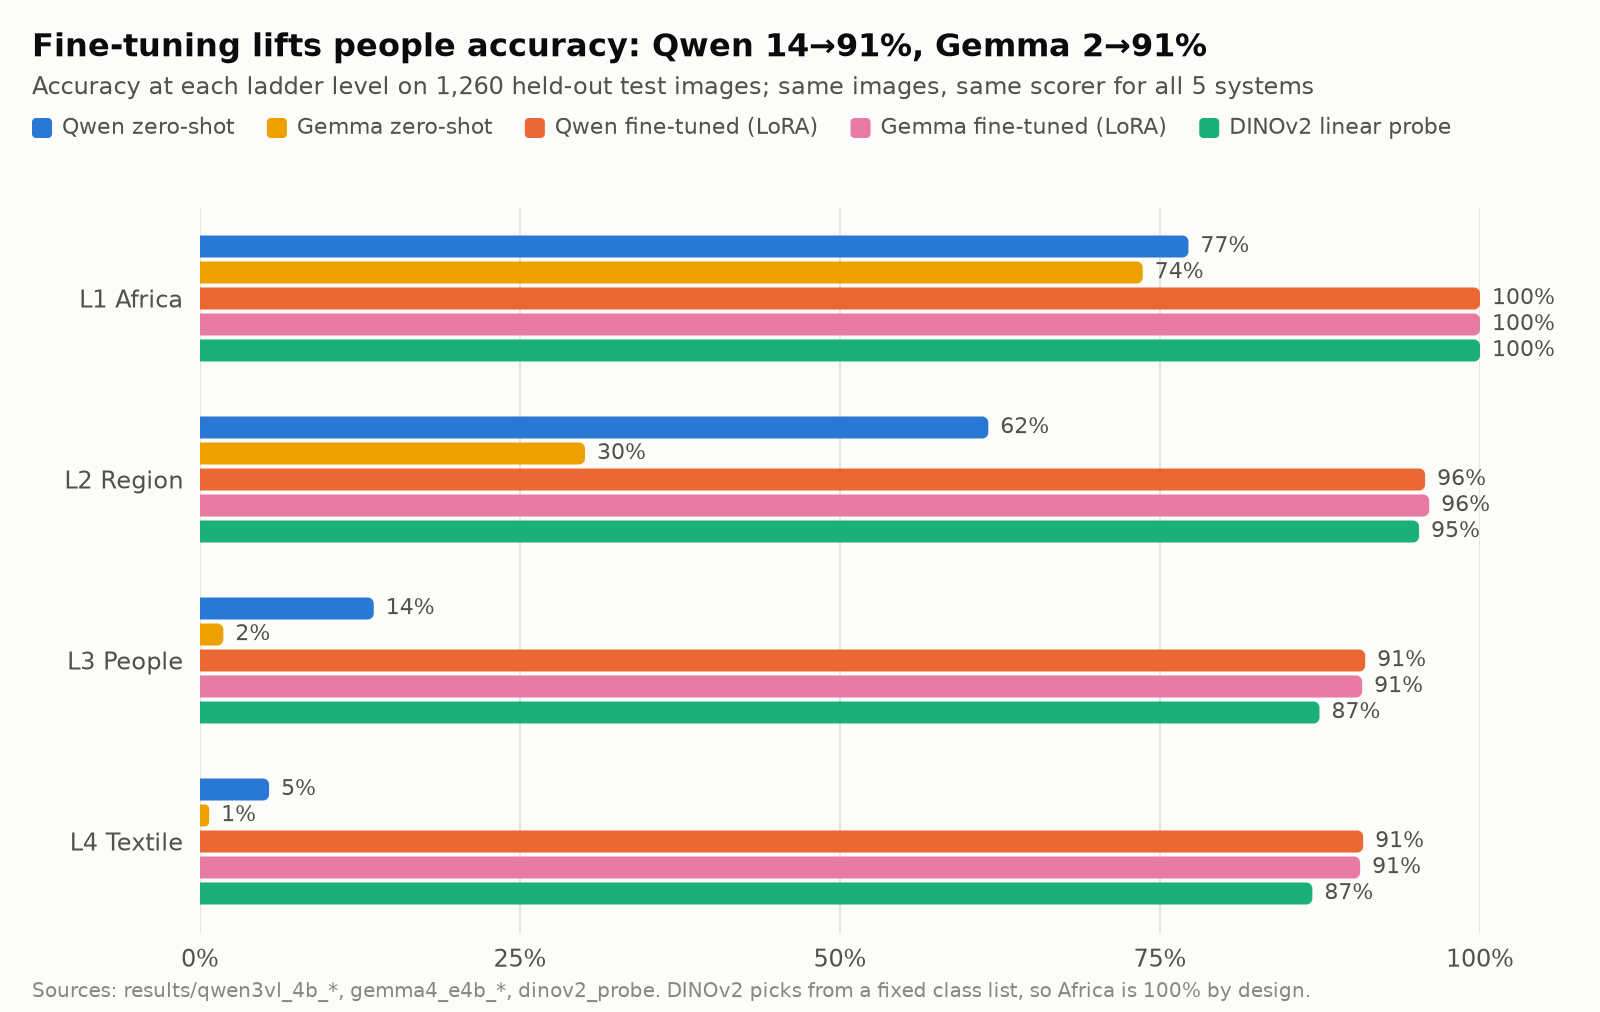
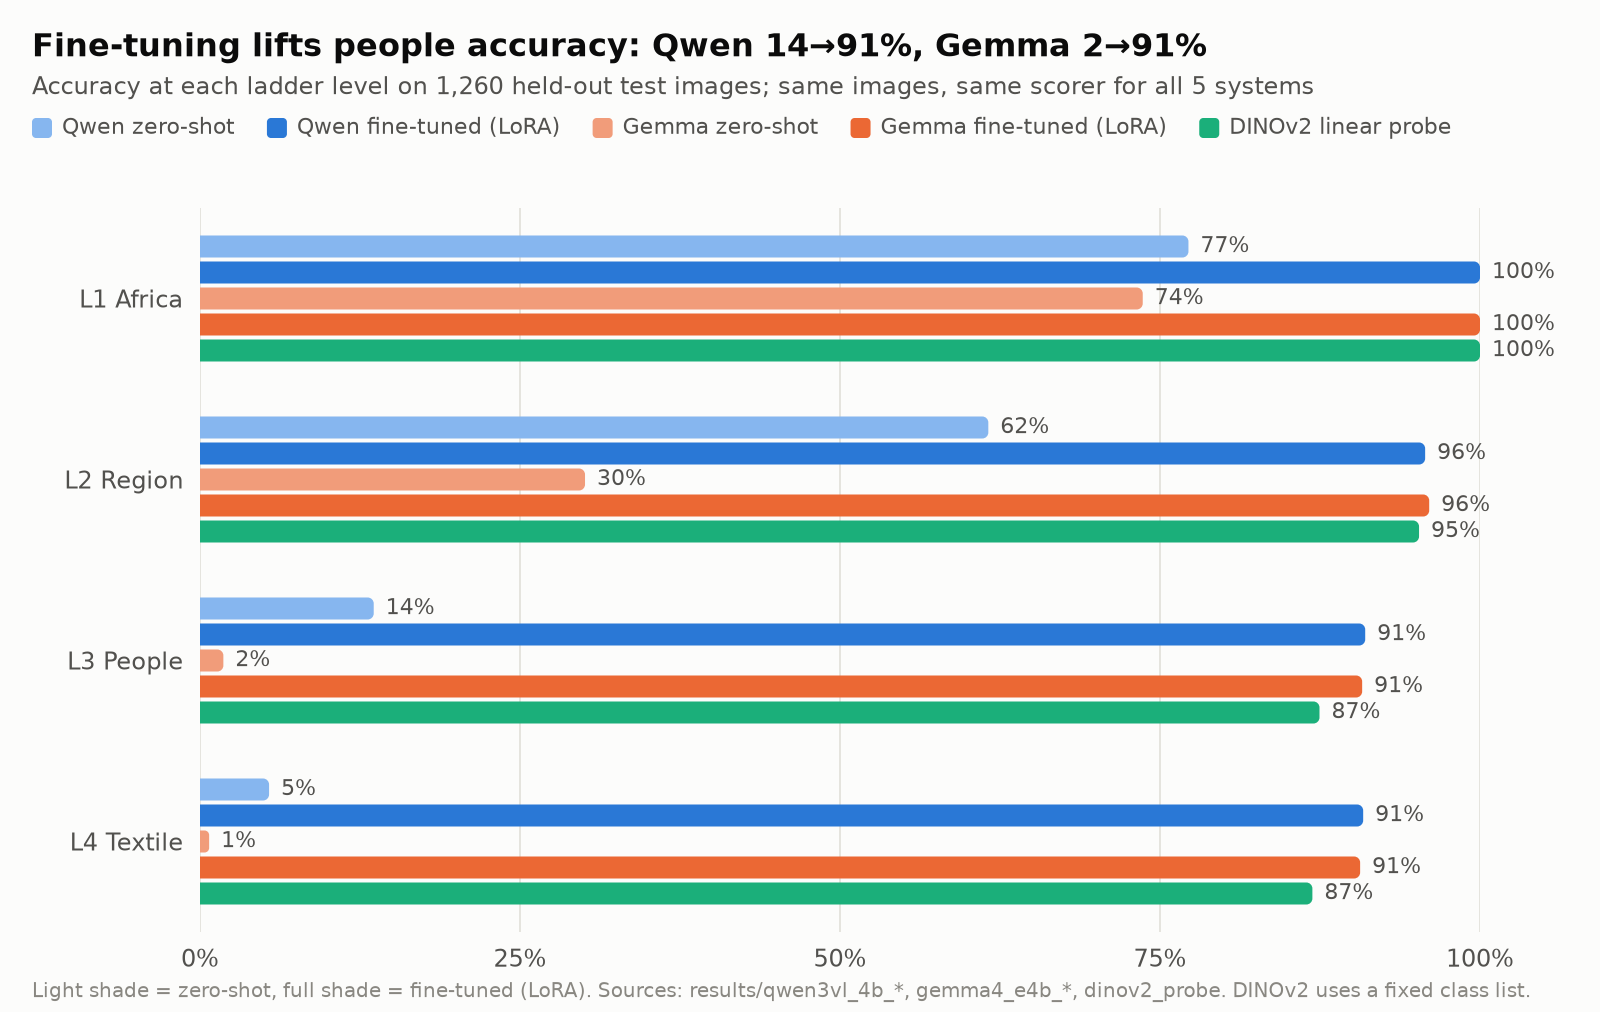
Recolor model comparison figures by model family and condition
Colour now encodes the model (Qwen blue, Gemma orange, DINOv2 aqua) and shade
encodes the condition (light tint = zero-shot, full colour = fine-tuned), with
each model's pair adjacent. The orange tint is the slot colour mixed toward the
surface to a 2:1 contrast floor, matching the blue light step. Fig 8 and fig 9
titles now cover both VLMs, and fig 9's title is computed from the data for both.

diff --git a/scripts/11_model_report_assets.py b/scripts/11_model_report_assets.py
@@ -44,22 +44,23 @@ RES, OUT, TAB = ra.RES, ra.OUT, ra.TAB
 PX, SURF, INK, INK2, MUTED, GRID, BASE, GRAY, BLUE = ra.PX, ra.SURF, ra.INK, ra.INK2, ra.MUTED, ra.GRID, ra.BASE, ra.GRAY, ra.BLUE
 SEED = 42
 
-# Categorical slots 1-3 of the reference palette, in fixed order (validated: all checks pass; aqua is below 3:1
-# contrast on the surface, so every bar carries a direct value label and a table twin exists).
+# Colour = model (palette slots 1-3: blue Qwen, orange Gemma, aqua DINOv2); shade = condition (light tint = zero-shot,
+# full colour = fine-tuned). Tints are chosen to clear a 2:1 contrast floor on the surface (blue step 250; the orange
+# tint is the slot colour mixed 35% toward the surface). Every bar carries a direct value label and a table twin exists.
 MODELS = {
-    "zs": {"label": "Qwen zero-shot", "long": "Qwen3-VL-4B, zero-shot", "color": "#2a78d6",
+    "zs": {"label": "Qwen zero-shot", "long": "Qwen3-VL-4B, zero-shot", "color": "#86b6ef",
            "dir": RES / "qwen3vl_4b_zeroshot" / "structured", "raw": RES / "qwen3vl_4b_zeroshot" / "structured_raw.jsonl"},
-    "ft": {"label": "Qwen fine-tuned (LoRA)", "long": "Qwen3-VL-4B, LoRA fine-tuned", "color": "#eb6834",
+    "ft": {"label": "Qwen fine-tuned (LoRA)", "long": "Qwen3-VL-4B, LoRA fine-tuned", "color": "#2a78d6",
            "dir": RES / "qwen3vl_4b_lora_eval" / "structured", "raw": RES / "qwen3vl_4b_lora_eval" / "structured_raw.jsonl"},
     "dino": {"label": "DINOv2 linear probe", "long": "DINOv2 linear probe", "color": "#1baf7a",
              "dir": RES / "dinov2_probe" / "ladder", "raw": None},
 }
-MODELS["gzs"] = {"label": "Gemma zero-shot", "long": "Gemma 4 E4B, zero-shot", "color": "#eda100",
+MODELS["gzs"] = {"label": "Gemma zero-shot", "long": "Gemma 4 E4B, zero-shot", "color": "#f19c7a",
                  "dir": RES / "gemma4_e4b_zeroshot" / "structured", "raw": RES / "gemma4_e4b_zeroshot" / "structured_raw.jsonl"}
-MODELS["gft"] = {"label": "Gemma fine-tuned (LoRA)", "long": "Gemma 4 E4B, LoRA fine-tuned", "color": "#e87ba4",
+MODELS["gft"] = {"label": "Gemma fine-tuned (LoRA)", "long": "Gemma 4 E4B, LoRA fine-tuned", "color": "#eb6834",
                  "dir": RES / "gemma4_e4b_lora_eval" / "structured", "raw": RES / "gemma4_e4b_lora_eval" / "structured_raw.jsonl"}
 # models whose results exist; display order groups zero-shot / fine-tuned / classifier
-MODELS = {k: MODELS[k] for k in ("zs", "gzs", "ft", "gft", "dino") if (MODELS[k]["dir"] / "metrics.json").exists()}
+MODELS = {k: MODELS[k] for k in ("zs", "ft", "gzs", "gft", "dino") if (MODELS[k]["dir"] / "metrics.json").exists()}
 KEYS = ["acc_l1_africa", "acc_l2_region", "acc_l3_people", "acc_l4_technique"]
 LEVELS = ["L1 Africa", "L2 Region", "L3 People", "L4 Textile"]
 RUNG_TXT = {3: "specific", 2: "region only", 1: "Africa only", 0: "no credit"}
@@ -201,8 +202,8 @@ def fig_compare_ladder(S):
     fig, ax = ra.new_fig(800, 150 + 4 * pitch, left=100, right=60, top=104, bottom=40)
     ra.heading(fig, title_people(),
                f"Accuracy at each ladder level on {S['n_test']:,} held-out test images; same images, same scorer for all {len(MODELS)} systems",
-               "Sources: results/qwen3vl_4b_*, gemma4_e4b_*, dinov2_probe. "
-               "DINOv2 picks from a fixed class list, so Africa is 100% by design.")
+               "Light shade = zero-shot, full shade = fine-tuned (LoRA). Sources: results/qwen3vl_4b_*, gemma4_e4b_*, dinov2_probe. "
+               "DINOv2 uses a fixed class list.")
     ra.legend_row(fig, [(m["color"], m["label"]) for _, m in ms], 64)
     grouped_hbars(fig, ax, rows, [(m["color"], m["label"]) for _, m in ms])
     ra.save(fig, "fig7_model_ladder_comparison")
@@ -214,8 +215,12 @@ def fig_compare_rungs(S):
     z0, zr3 = MODELS["zs"]["overall"]["rung_dist"], MODELS["zs"]["overall"]["specific_rate"]
     f = MODELS["ft"]["overall"]
     fig, ax = ra.new_fig(800, 180 + len(order) * 44, left=172, right=30, top=104, bottom=40)
+    g = MODELS.get("gzs"), MODELS.get("gft")
     ra.heading(fig, "Share of images reaching each rung, by system" if "ft" not in MODELS else
-               f"Specific answers: {100 * zr3:.0f}% Qwen zero-shot, {100 * f['specific_rate']:.0f}% after fine-tuning",
+               (f"Specific answers: {100 * zr3:.0f}% / {100 * g[0]['overall']['specific_rate']:.0f}% zero-shot, "
+                f"{100 * f['specific_rate']:.0f}% / {100 * g[1]['overall']['specific_rate']:.0f}% tuned (Qwen / Gemma)"
+                if g[0] and g[1] else
+                f"Specific answers: {100 * zr3:.0f}% Qwen zero-shot, {100 * f['specific_rate']:.0f}% after fine-tuning"),
                "Deepest correct rung per test image. Rung 3 = people or textile named correctly.",
                "Rung 1 (Africa only) includes wrong-specific answers such as the wrong people; "
                "rung 0 = not credited as African or no answer.")
@@ -234,17 +239,24 @@ def fig_compare_by_class(S):
     rows = [(c, [100 * m["per_class"][c]["specific_rate"] for m in ms]) for c in classes]
     ftv = {c: 100 * MODELS["ft"]["per_class"][c]["specific_rate"] for c in classes}
     zsv = {c: 100 * MODELS["zs"]["per_class"][c]["specific_rate"] for c in classes}
-    worst = min(ftv, key=ftv.get)
+    pairs = [(ftv, zsv)]
+    if "gft" in MODELS and "gzs" in MODELS:
+        pairs.append(({c: 100 * MODELS["gft"]["per_class"][c]["specific_rate"] for c in classes},
+                      {c: 100 * MODELS["gzs"]["per_class"][c]["specific_rate"] for c in classes}))
+    improved = all(a[c] > b[c] for a, b in pairs for c in classes)
+    low = {c: min(a[c] for a, _ in pairs) for c in classes}
+    worst = min(low, key=low.get)
+    hi = max(a[worst] for a, _ in pairs)
     best_zs = max(zsv, key=zsv.get)
-    improved = all(ftv[c] > zsv[c] for c in classes)
-    title = (f"Fine-tuning improves every class; the lowest is {worst} at {ftv[worst]:.0f}%" if improved else
-             f"Fine-tuning helps most classes; the lowest is {worst} at {ftv[worst]:.0f}%")
+    who = "both models" if len(pairs) > 1 else "Qwen"
+    title = (f"Tuning improves every class for {who}; weakest: {worst} ({low[worst]:.0f}-{hi:.0f}%)" if improved else
+             f"Tuning helps most classes for {who}; weakest: {worst} ({low[worst]:.0f}-{hi:.0f}%)")
     pitch = len(ms) * 12 + 14
     fig, ax = ra.new_fig(800, 150 + 8 * pitch, left=150, right=60, top=104, bottom=40)
     ra.heading(fig, title,
                f"Share of test images where the people or textile is named correctly (rung 3), per class. "
                f"Zero-shot best: {best_zs} ({zsv[best_zs]:.0f}%).",
-               "Source: per-class metrics of each run. Gold for Tswana-Shweshwe, Xhosa and Zulu is still a draft.")
+               "Light shade = zero-shot, full = fine-tuned. Gold for Tswana-Shweshwe, Xhosa and Zulu is a draft.")
     ra.legend_row(fig, [(m["color"], m["label"]) for m in ms], 64)
     grouped_hbars(fig, ax, rows, [(m["color"], m["label"]) for m in ms], thick=10 if len(ms) < 5 else 8)
     ra.save(fig, "fig9_specific_rate_by_class")
